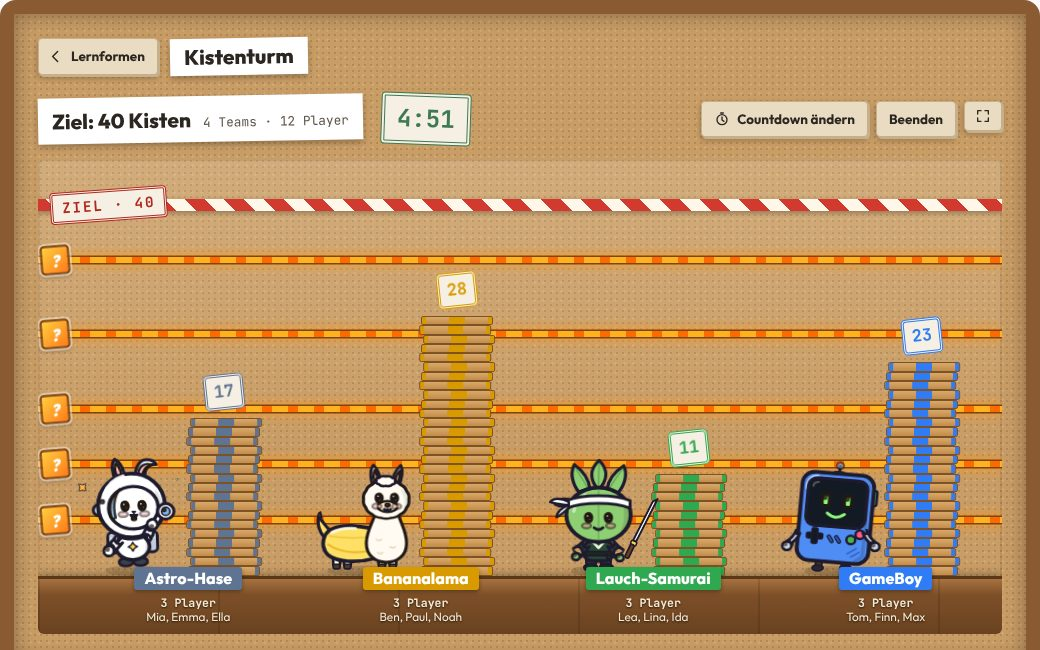
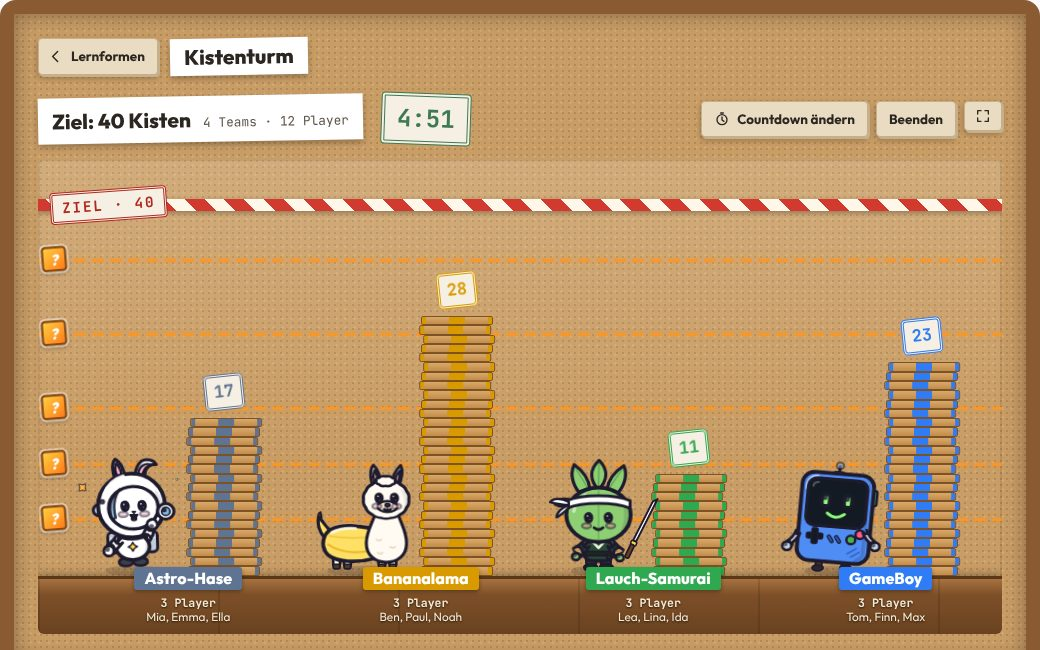
Kistenturm: Item-Linien dezenter, Figuren-Augen im Dunkelmodus
- Item-Linien als gestrichelte 3-px-Linie mit leichtem Schein (Mittelding)
- .dd svg vererbte stroke: currentColor → im Dunkeln heller Rand um die Augen; Figuren behalten jetzt die dunkle Tinte
- Stempel 20261030p, Bildschirmfoto neu

Claude-Session: https://claude.ai/code/session_01SoWN1nmjmVzq2P7aG7Prx9

diff --git a/MPSkills/tools/DefinitionsDerby/tool.css b/MPSkills/tools/DefinitionsDerby/tool.css
@@ -105,6 +105,9 @@
 .dd-busy .dd-main { opacity: .7; pointer-events: none; }
 
 .dd svg { width: 18px; height: 18px; fill: none; stroke: currentColor; stroke-width: 2; stroke-linecap: round; stroke-linejoin: round; flex: none; }
+/* Figuren (KSCreatures) erben den Strich über currentColor: im Dunkeln wäre er hell
+   und legt einen hellen Rand um die Augen — also immer dunkle Tinte */
+.dd .creature-svg { color: var(--ink); }
 
 /* ─── Kopf und Texte ─── */
 .dd-top { display: flex; gap: 14px; align-items: flex-start; justify-content: space-between; flex-wrap: wrap; margin-bottom: 22px; }
@@ -1437,13 +1440,13 @@ html.kb-open .dd-task__term b { font-size: 1.4rem; }
 @keyframes dd-st-settle { 0% { transform: translateY(-14px); } 60% { transform: translateY(3px); } 100% { transform: none; } }
 /* Item-Linien am Beamer */
 .dd-st__ilines { position: absolute; inset: 0; pointer-events: none; z-index: 0; }
-/* gut sichtbar (Sönke 30.10.2026: „nicht gut zu sehen“): kräftiges Band mit dunklem Saum und Schein */
+/* gut sichtbar, aber nicht aufdringlich (Sönke 30.10.2026: erst „nicht gut zu sehen“, dann „etwas too much“) */
 .dd-st__ilines i {
-  position: absolute; left: 0; right: 0; height: 6px; margin-bottom: -3px;
-  background: repeating-linear-gradient(90deg, #ffb21e 0 16px, #ff6a00 16px 26px);
-  box-shadow: 0 0 0 1.5px rgba(90,40,0,.75), 0 0 12px 2px rgba(255,150,20,.75);
+  position: absolute; left: 0; right: 0; height: 3px; margin-bottom: -1.5px;
+  background: repeating-linear-gradient(90deg, rgba(255,150,30,.85) 0 12px, transparent 12px 18px);
+  box-shadow: 0 0 6px rgba(255,150,20,.35);
 }
-.dd-st__ilines .dd-st__qbox { position: absolute; left: 3px; top: -11px; width: 28px; height: 28px; font-size: 1rem; animation: dd-st-qbox 2.4s ease-in-out infinite; }
+.dd-st__ilines .dd-st__qbox { position: absolute; left: 4px; top: -12px; width: 24px; height: 24px; font-size: .9rem; animation: dd-st-qbox 2.4s ease-in-out infinite; }
 @keyframes dd-st-qbox { 50% { transform: rotate(-8deg) scale(1.08); } }
 /* Wirkungen an der Bahn */
 .dd-st__fxs { position: absolute; left: 4px; top: auto; bottom: calc(var(--fw) + 8px); z-index: 6; display: flex; flex-direction: column; gap: 4px; }
@@ -1530,7 +1533,7 @@ html.kb-open .dd-task__term b { font-size: 1.4rem; }
 .dd-st__pop.is-item { display: inline-flex; align-items: center; gap: 4px; border-left-color: #ff9f1c; }
 .dd-st__pop .dd-it { width: 20px; height: 20px; }
 /* Tablet: Items, Wirkungen, Hinweise, Teatime */
-.dd-st__rbar u { position: absolute; left: var(--y); top: 0; bottom: 0; width: 4px; margin-left: -2px; background: #ff8c1e; box-shadow: 0 0 0 1px rgba(90,40,0,.7), 0 0 5px rgba(255,140,30,.9); z-index: 2; }
+.dd-st__rbar u { position: absolute; left: var(--y); top: 0; bottom: 0; width: 3px; margin-left: -1.5px; background: #ff8c1e; box-shadow: 0 0 0 1px rgba(90,40,0,.35); z-index: 2; }
 .dd-st__rr .dd-st__fxs { position: static; flex-direction: row; grid-column: 2 / 4; margin-top: -2px; }
 .dd-st__rr .dd-st__fxs:empty { display: none; }
 .dd-st__rr .dd-st__fxs span { font-size: .7rem; }
@@ -1643,7 +1646,7 @@ html.kb-open .dd-task__term b { font-size: 1.4rem; }
   .dd-st--dev .dd-st__rbar::after { left: 0; right: 0; top: 0; bottom: auto; width: auto; height: 4px; background: repeating-linear-gradient(90deg, #d23a2f 0 4px, #fff7ea 4px 8px); }
   .dd-st--dev .dd-st__rbar i { top: auto; right: 0; width: auto; height: var(--p, 0%);
     background: repeating-linear-gradient(0deg, rgba(0,0,0,.2) 0 1.5px, transparent 1.5px 8px), var(--tc); }
-  .dd-st--dev .dd-st__rbar u { left: 0; right: 0; top: auto; bottom: var(--y); width: auto; height: 3px; margin: 0 0 -1.5px; }
+  .dd-st--dev .dd-st__rbar u { left: 0; right: 0; top: auto; bottom: var(--y); width: auto; height: 2px; margin: 0 0 -1px; }
   .dd-st--dev .dd-st__rfig, .dd-st--dev .dd-st__rr.is-me .dd-st__rfig { order: 3; width: 30px; height: 30px; }
   .dd-st--dev .dd-st__rr .dd-st__pops { left: 50%; right: auto; top: 0; transform: translateX(-50%); }
   .dd-st--dev .dd-st__rr .dd-st__pop { font-size: .66rem; padding: 1px 5px; }

diff --git a/MPSkills/index.html b/MPSkills/index.html
@@ -555,7 +555,7 @@
      das Drehbuch je Skill; das Werkzeug selbst (137 KB) kommt erst,
      wenn jemand eine Kachel öffnet — und mit ihm lib/tool.js. Wer
      nur die Liste anschaut, lädt nichts davon. -->
-<script src="lib/preview.js?v=20261030o"></script>
+<script src="lib/preview.js?v=20261030p"></script>
 <script src="preview/wordcloud.js?v=20260819d"></script>
 <script src="preview/neurolab.js?v=20260819b"></script>
 <script src="preview/caesar.js?v=20260820"></script>

diff --git a/MPSkills/lib/preview.js b/MPSkills/lib/preview.js
@@ -415,7 +415,7 @@
     if (window.MPTool) return Promise.resolve();
     return new Promise((resolve, reject) => {
       const s = document.createElement('script');
-      s.src = 'lib/tool.js?v=20261030o';
+      s.src = 'lib/tool.js?v=20261030p';
       s.onload  = () => window.MPTool ? resolve() : reject(new Error('MPTool fehlt'));
       s.onerror = () => reject(new Error('lib/tool.js nicht gefunden'));
       document.head.appendChild(s);

diff --git a/MPSkills/lib/tool.js b/MPSkills/lib/tool.js
@@ -105,7 +105,7 @@
        neue Reliefkarte von Wordisland unter — der Umbau war fertig,
        auf dem Bildschirm stand die alte Karte, und es sah aus, als
        wäre nichts geschehen. */
-    const v = '?v=20261030o';
+    const v = '?v=20261030p';
 
     loading[id] = new Promise((resolve, reject) => {
       // Das Stylesheet wird nicht abgewartet: ein Werkzeug, das auf

diff --git a/MPSkills/j.html b/MPSkills/j.html
@@ -77,7 +77,7 @@
      dazuholen" raus ist. Die Tür gehört der Tafel. -->
 <script src="lib/room.js?v=20261024b"></script>
 <script src="lib/icons.js?v=20261030c"></script>
-<script src="lib/tool.js?v=20261030o"></script>
+<script src="lib/tool.js?v=20261030p"></script>
 <script src="door-login.js?v=20261017b"></script>
 <script src="j.js?v=20261024b"></script>
 </body>

diff --git a/MPSkills/showroom-preview.html b/MPSkills/showroom-preview.html
@@ -73,7 +73,7 @@
 
 <div class="toast" id="toast" role="status" aria-live="polite"></div>
 
-<script src="lib/preview.js?v=20261030o"></script>
+<script src="lib/preview.js?v=20261030p"></script>
 <script src="preview/wordcloud.js?v=20260819d"></script>
 <script src="preview/neurolab.js?v=20260819b"></script>
 <script src="preview/caesar.js?v=20260820"></script>

diff --git a/MPSkills/lehrer.html b/MPSkills/lehrer.html
@@ -55,7 +55,7 @@
 <script src="lib/qr.js?v=20260817"></script>
 <script src="lib/room.js?v=20261024b"></script>
 <script src="lib/icons.js?v=20261030c"></script>
-<script src="lib/tool.js?v=20261030o"></script>
+<script src="lib/tool.js?v=20261030p"></script>
 <script src="tools.js?v=20261030c"></script>
 <script src="lehrer.js?v=20261024"></script>
 </body>

diff --git a/MPSkills/derby.html b/MPSkills/derby.html
@@ -44,7 +44,7 @@
 <script src="../avatars.js?v=20261028a"></script>
 <script src="lib/userbar.js?v=20261021"></script>
 <script src="lib/profilemodal.js?v=20261024"></script>
-<script src="lib/tool.js?v=20261030o"></script>
+<script src="lib/tool.js?v=20261030p"></script>
 <script src="derby.js?v=20261026b"></script>
 </body>
 </html>

diff --git a/MPSkills/insel.html b/MPSkills/insel.html
@@ -56,7 +56,7 @@
 <script src="../avatars.js?v=20261028a"></script>
 <script src="lib/userbar.js?v=20261020"></script>
 <script src="lib/room.js?v=20261024b"></script>
-<script src="lib/tool.js?v=20261030o"></script>
+<script src="lib/tool.js?v=20261030p"></script>
 <script src="insel.js?v=20260923"></script>
 </body>
 </html>

diff --git a/MPSkills/tools/DefinitionsDerby/tool.js b/MPSkills/tools/DefinitionsDerby/tool.js
@@ -74,7 +74,7 @@
 (function () {
   'use strict';
 
-  const V = '20261030o';
+  const V = '20261030p';
   const BASE = 'tools/DefinitionsDerby/';
   const MAX_SHARED = 20;          // data.shared muss in 8 KB passen
   const LEVELS = ['neu', 'unsicher', 'teilweise', 'sicher'];

diff --git a/MPSkills/tools/DefinitionsDerby/CLAUDE.md b/MPSkills/tools/DefinitionsDerby/CLAUDE.md
@@ -72,7 +72,7 @@ Erste Lernform **„Zusammen im Netz“** (`storm`, `GAMES` mit `net: true`, nur
 - **Server** (Tabellen `dd_storm_boards/teams/players/events`, alles am Raum mit on delete cascade): Lehrkraft `dd_storm_room_get/setup/start/stop/reset(p_code, …)`, Tablet `dd_storm_view(p_token, p_since)` und `dd_storm_answer(p_token, p_ok, p_since)` — jede Antwort liefert die ganze Ansicht zurück. Phasen `lobby → countdown (4 s) → running → ended`, lazy weitergeschaltet (`dd_storm_advance`, kein Cron). **Ob eine Antwort stimmt, prüft das Tablet** (insel.js, nachsichtig); der Server zählt höchstens eine richtige je 1,2 s und Gerät (`too_fast`). **Fair bei ungleichen Teams**: eine Antwort bringt `größtes Team / eigenes Team` Anteile (`progress`), Höhe = ganzer Teil. Für Animationen eine laufende Nummer `seq` und kurze Ereignisliste (`box` mit Name und Höhe, `start`, `win`, `time`, `stop`, `reset`; die letzten 200 bleiben); Geräte fragen mit `p_since` nur Neues. In der Lobby kennt das Tablet über `me.id` sein Vorschau-Team.
 - **Aufgaben**: dieselben fünf wie auf der Insel (`DDInsel.makeTask`), die Stufe kommt aus der **Höhe des eigenen Turms** (`stLevel` = ⌊Höhe/Ziel · 5⌋: Begriff wählen · Definition wählen · Bausteine · Begriff tippen · Lückentext) — wer hinten liegt, hat leichtere Aufgaben. Reihenfolge `DDInsel.roundCards`, Falsches kommt per `requeue` wieder. Richtig → „Eine Kiste für Team X“, nach 1 s die nächste; falsch → Lösung, „Weiter“ erst nach 1,6 s (`ST_LOCK_MS`, gegen Raten). **Schreibt keinen Lernstand** (wie Memory/Duell). Das Aufgabenblatt ist dasselbe wie auf der Insel (`paintTask` & Co. fragen `curTask()`; das Ergebnis geht über `taskResult` an `stResult` bzw. `islResult`), hier im Fluss statt als Fenster (`.dd-task--inline`, Kopf `stTaskHead`).
 - **Die sechs Figuren** (`figuren.js` + `figuren.css`, Sönke: „neue Wesen ähnlich Knowledge Stack, sechs verschiedene, cool/süß, jede mit eigenem Charakter … die Figur hebt den Stapel hoch und darunter erscheint eine neue Kiste“): gebaut mit dem Baukasten von Knowledge Stack (`KSCreatures.buildDef` + `kit`, gleiches Skelett/Gesicht/Bewegungen; `tool.js` lädt `tools/KnowledgeStack/creatures.js/.css` nach). Team = Nummer in `DDFiguren.LIST`, **nicht umsortieren**. Fassung nach Sönkes Vorlagebildern (29.10.2026, „die Teamfiguren mag ich noch nicht“, dann „Kopf größer, Arme besser, das Bananalama sieht fies aus“): Chibi-Stil – großer Kopf, kleiner Körper; **Arme je Figur wie in der Vorlage** (dritte Runde, Sönke: „die Arme mag ich nicht … schau dir die Vorlage an“): `limb` (Arm mit Knick, oben dicker, runde Enden) + `hand` (runde Hand mit Daumen); Astro-Hase schlichte dicke Raumanzug-Ärmel mit runder Hand (Sönke: „die Arme vom Hasen sind zu unruhig“, ohne Fähnchen und Linien), GameBoy dünne graue Ärmchen, Lauch-Samurai weite Kimono-Ärmel mit grünen Händen (Schwert in `behind`, Griff an der rechten Hand), Popcorn kurze schwarze Stummelärmchen. Hase und GameBoy winken in Ruhe ab und zu (`ds-wave`). **Augen** (Sönke 30.10.2026: „sehen nicht mehr so süß aus, schwarz ist zu dick“): schmaler und kleiner mit größerem Glanzpunkt über `face.ew` (Breite, Standard 0,8) und `face.hl` (Glanzpunkt, Standard 0,34) — beide optional in `creatures.js`, Knowledge Stack bleibt unverändert; Figuren nutzen `ew: .72, hl: .42`. 0 **Astro-Hase** (schwebt schräg, ein Ohr geknickt, offener Mund mit Zunge, Rucksack hinten, Stern auf der Brust, blauer Rand innen im Helm, winkt ab und zu; Teamfarbe Schiefergrau, weil Weiß auf Papier nicht lesbar ist) · 1 **Bananalama** (wie die Vorlage: großer Wuschelkopf (`fluff`) und kurzer, runder Hals mit bauchiger Brust (Sönke: „der Hals ist unförmig, putziger“), beides als EIN Umriss über `merged` (erst mit Rand, dann ohne darüber, damit keine Linien innen bleiben), große Augen, kleine Nase, Katzenmund, ohne Brille; die Banane ist der Körper, hinten hochgebogen mit dunkler Spitze, ohne Stiel am Po; keine Arme, beim Heben reckt es den Hals) · 2 **Lauch-Samurai** (großer runder Blatt-Kopf, drei Blätter, Stirnband) · 3 **GameBoy** (große Konsole, Bildschirm-Gesicht, Steuerkreuz, grüner Seitenknopf, Antenne) · 4 **Popcorn** (gestreifte Tüte, 3D-Brille mit weißem Rahmen, links blau, rechts rot, in `headTop`) · 5 **Magic Ghost** (schwebendes Gespenst mit Zauberhut, Stab in `front`). `DDFiguren.svg(team, action, px)` mit `idle` · `lift` (`.ds-lift`: in die Knie, Arme nach oben außen, strecken, 0,9 s) · `cheer` · `sad` · `wave` (aus creatures.css). Ansehen: `showroom-kistensturm.html` (Knöpfe je Figur).
-- **Beamer** (`stSceneBeam`): Holzleiste unten mit Teamschild, je Team ein Turm aus **Pappkartons mit Klebeband** (`.dd-st__box`; das breite Klebeband in der Mitte und beide Seitenkanten in der Farbe des Teams, dem die Kiste gehört — Sönke 30.10.2026: „eindeutiger in der Farbe“), die Figur steht links daneben; neue Kiste = Figur hebt (`stLift`) und die Kiste rutscht unten hinein (`.is-new`, `column-reverse`, erstes Kind = unten), Kiste für Kiste je Team nachgezogen (`stSync`/`stStep`, `ST_STEP_MS`; weit zurück → springen bis auf 3). Kistenhöhe so, dass das Ziel genau unter das **Absperrband** passt (`stLayout`, `--bh`; unter 12 px ohne Klebeband-Details `is-thin`). Höhe als Stempel über dem Turm, darüber „Name +1“-Zettel. Unter dem Teamschild „x Player“ und die Namen des Teams (`stWho`/`stPaintWho`, zieht Spätzugänge nach; Sönke 30.10.2026, vorher „x Kinder“). **Item-Linien** als kräftiges orange gestreiftes Band mit dunklem Saum und Schein, Fragezeichen größer (Sönke 30.10.2026: „nicht gut zu sehen“); am Tablet die Linien im Balken ebenso kräftig. Countdown „Bereit? 3-2-1 Los!“ als großer Stempel, Uhr oben (rot in den letzten 30 s), Vollbild-Knopf. Ende: Siegerkarte (Figur jubelt, Platzierung, „Nochmal“), am Turm jubelt der Sieger, die anderen sind traurig.
+- **Beamer** (`stSceneBeam`): Holzleiste unten mit Teamschild, je Team ein Turm aus **Pappkartons mit Klebeband** (`.dd-st__box`; das breite Klebeband in der Mitte und beide Seitenkanten in der Farbe des Teams, dem die Kiste gehört — Sönke 30.10.2026: „eindeutiger in der Farbe“), die Figur steht links daneben; neue Kiste = Figur hebt (`stLift`) und die Kiste rutscht unten hinein (`.is-new`, `column-reverse`, erstes Kind = unten), Kiste für Kiste je Team nachgezogen (`stSync`/`stStep`, `ST_STEP_MS`; weit zurück → springen bis auf 3). Kistenhöhe so, dass das Ziel genau unter das **Absperrband** passt (`stLayout`, `--bh`; unter 12 px ohne Klebeband-Details `is-thin`). Höhe als Stempel über dem Turm, darüber „Name +1“-Zettel. Unter dem Teamschild „x Player“ und die Namen des Teams (`stWho`/`stPaintWho`, zieht Spätzugänge nach; Sönke 30.10.2026, vorher „x Kinder“). **Item-Linien** als orange gestrichelte 3-px-Linie mit leichtem Schein, Fragezeichen etwas größer (Sönke 30.10.2026: erst „nicht gut zu sehen“, das kräftige Band dann „etwas too much“ → Mittelding); am Tablet die Linien im Balken etwas kräftiger. **Dunkelmodus**: `.dd svg` vererbt `stroke: currentColor`; damit die Figuren-Augen keinen hellen Rand bekommen, setzt `.dd .creature-svg { color: var(--ink) }` die dunkle Tinte aus creatures.css. Countdown „Bereit? 3-2-1 Los!“ als großer Stempel, Uhr oben (rot in den letzten 30 s), Vollbild-Knopf. Ende: Siegerkarte (Figur jubelt, Platzierung, „Nochmal“), am Turm jubelt der Sieger, die anderen sind traurig.
 - **Tablet** (`stSceneDev`): Papierkarte mit allen Teams als Balken (eigenes Team hervorgehoben, „ihr“, große Figur, die mithebt; „+1 Name“ nur fürs eigene Team), darunter die Stufe der Aufgaben, dann das Aufgabenblatt. Lobby: „Du bist in Team X“ mit winkender Figur und den Namen; Ende: eigene Figur jubelt/traurig, Platzierung, „Du hast n Kisten beigetragen“.
 - **Bildschirmfoto** `img/spiel-kistensturm.jpg`, Mini-Bild `MINI.storm` (vier Türme, Absperrband).
 - **Items (Migration 0240, Sönkes Liste 30.10.2026)**: Item-Linien **unten dichter** (Migration 0249, Sönke: „3 unter 50 % und 2 darüber, so haben Schwächere mehr Möglichkeiten“): normal 15 · 30 · 45 · 65 · 85 %, „häufig“ 8 · 16 · 24 · 32 · 40 · 48 · 60 · 70 · 80 · 90 % der Zielhöhe — `dd_storm_lines`/`dd_storm_lines_below` in SQL und `ST_LINES` in `tool.js`, **beide zusammen ändern**; **Gewichte** (Erster · vordere Hälfte · hintere Hälfte · Letzter, 0249): Bonus 3 3 1 0 · Stein 3 2 1 0 · Möwe 0 3 2 0 · 3 Möwen 0 0 2 3 · Maxi 1 2 2 0 · Mini 0 1 2 0 · Eis 1 2 2 0 · Sturm 0 2 3 3 · Teatime 0 0 2 2, aber **Platz 3 immer 5** · Boom 0 0 2 3 · Bus 0 1 2 3 · Kuddelmuddel 1 1 2 2; wer eine Linie überquert, bekommt ein Item fürs Team — **jedes Mal**, auch nach Kistenverlust erneut (Migration 0241: `line_max` = Linie, über der der Turm gerade steht, sinkt per Trigger `dd_storm_teams_relevel` mit der Höhe; Sönke: „Die Linie gilt immer!“) (höchstens 2, `dd_storm_teams.items`), **einsetzen darf es EINE Person, reihum** (Migration 0247, Sönke 30.10.2026: „die Items bekommt immer einer aus dem Team … das Item geht reihum“): `dd_storm_teams.items_who` (Teilnehmer-ids parallel zu `items`) + `item_turn`, vergeben vom Trigger `dd_storm_teams_items_who` (nach Sitzplatz, Anwesende zuerst); `dd_storm_use(p_token, p_slot, p_since)` → sonst `not_yours`, außer der Halter ist weg (entfernt/gesperrt/90 s nicht gesehen). Ansicht `teams[].iw`. Am Tablet hat der Halter einen kleinen Knopf „Einsetzen“, die anderen sehen „Mia hat ein Item“ (`stPaintItems`, `stName`). Welches, würfelt `dd_storm_draw` nach Platz (Gewichte je Gruppe Erster/vordere/hintere/Letzter, Tabelle in der Funktion; ausgeschaltete Items fallen raus). Lobby: Items an/aus, normal/häufig, jedes Item an/aus (`dd_storm_room_items`, nur in der Lobby). Die 12 Items: **Bonus-Kisten** (+2 Gold) · **Steinkiste** (Möwe/Sturm/Boom kommen nicht an Darunterliegendes, `dd_storm_take_top` nimmt die oberste Nicht-Stein-/Nicht-Eis-Kiste) · **Möwe** (oberste Kiste des Teams direkt davor wandert zu euch) · **3 Möwen** (**immer 3 Kisten**, Migration 0248, Sönke 30.10.2026: reihum über die Teams davor, das nächste zuerst, auch doppelt; erst wenn davor nichts mehr zu holen ist, von den Teams dahinter; auch die einfache Möwe holt beim Ersten von hinten; Ereignis `data.g = [{t, b}]` je Kiste) — **geklaute Kisten behalten ihre Farbe**, man sieht, von wem sie sind (0248 nimmt 0246 zurück) · **Maxi-Kisten** (40 s doppelt hoch, `k:'x'`; 0249, vorher 20 s) · **Mini-Kisten** (zwei Teams davor 40 s halbe Kisten, `k:'m'`) · **Sturm** (30 s, `storm_until`: falsche Antwort kostet die oberste Kiste, aber nur ab Stufe 2, also Höhe ≥ Ziel/5) · **Teatime** (die ersten beiden Teams 10 s Pause, Antwort → Ergebnis `tea`; nicht für Teams auf Platz 1–2) · **Bus** (fährt unten durch, nimmt jedem anderen Team eine Höhe von 5 normalen Kisten, auch Steine) · **Boom** (Plasmabombe auf den Ersten: oberste 5 weg, ein Stein stoppt) · **Eiskiste** (ein anderes Team bekommt sie **ganz unten** in den Turm, Migration 0245, Sönke 30.10.2026: „man verliert nur die neuen“; die nächsten 5 Antworten müssen sitzen, sonst rutscht weg, was seitdem unter dem Eis gewachsen ist — die vorher erspielten Kisten liegen darüber und bleiben; ohne Zeitlimit) · **Kuddelmuddel** (alle Kisten aller Teams gemischt, Anzahl je Team bleibt, jede Kiste behält ihre Farbe (0248); alle Plätze, mittel häufig). Kisten liegen als `boxes` jsonb (unten zuerst, `{k,t,n}`), `height` = Summe der Größen (numeric, halbe Kisten möglich); `dd_storm_state` schickt sie kurz als `b: ["n2","s1","i3.4"]`. **Veraltete Ansichten verwirft `stApply`** (`v.seq < st.seq` im selben Spiel): eine Abfrage, die vor dem Einsetzen/Antworten losging und danach ankommt, ließ sonst Türme zurückspringen — die Möwe sah aus, als klaute sie doppelt (Sönke 30.10.2026). Ereignisse `box/get/use/blow/icebreak/melt` mit `data` → Beamer-Animationen (`stEvent`) und Ansage oben. **Effekte mit „Bam“** (Sönke 30.10.2026: „das soll Spaß machen, die zu erzeugen“): `stBam` (Comic-Stern mit Wort: SCHNAPP!, RUMMS!, BOOM!, FROST!, KRACK!, HUI!, +2!, TOCK!, MAXI!, TEATIME!, STURM!, KUDDELMUDDEL!), `stSparks` (Funken), `stQuake` (Szene wackelt), `stKnock` (Kisten fliegen als Kopien davon, der Rest fällt nach; kürzt `st.shown` gleich mit); **Bus** fährt auf der Holzleiste in Turmhöhe durch und haut an jedem Turm genau zu dem Zeitpunkt, an dem er ankommt, die untersten Kisten weg (`stBus`, `d['n'+t]`); **Möwe** putziger (`GULL`: runder Körper, Glanzauge, Bäckchen, schlagende Flügel `.dd-gw`), stößt herab, schnappt die Kiste und fliegt zum eigenen Turm; Boom schleudert die obersten Kisten weg; Eisbruch die untersten (`d.lost`). Am Tablet bekommt, wer einsetzt, das Item groß ins Bild (`stBig`, kurz vibrieren). Bei „Bewegung reduzieren“ keine Funken/Wackler; Wirkungen mit Zeit als Abzeichen über der Figur (`#ddStX`), gehaltene Items neben dem Teamnamen (`#ddStI`), am Tablet im Spiel Item-Bild + „Einsetzen“ und daneben ein kleines „i“ → dasselbe Erklärfenster wie in der Lobby (`#ddStItems`, `.dd-st__itwrap`, Sönke 30.10.2026) und Teepause-Schleier. Erklärung der Items in der Lobby: Lehrkraft hat an jedem Item ein „i“, Schüler sehen unter ihrer Teamkarte „Items in diesem Spiel“ (nur eingeschaltete, antippen) → Fenster `stItemInfo` mit Bildschirmfoto `img/item-<id>.jpg` (880×440; `item-eis/moewe/moewe3/bus.jpg` am 30.10.2026 neu, Animation per `document.getAnimations()` angehalten; aus dem Beamer im Testserver geschnitten: pglite mit allen Migrationen, Lehrkraft-Seite mit `MPTool.presenterActions`, Türme per `dd_storm_put` gesetzt, Fenster 1000×760, Ausschnitt unten aus `#ddStScene`, JPEG 82) + Kurztext. **Layout (Sönke 30.10.2026: „am Handy ohne Scrollen weiterkommen“)**: am Handy (≤ 600 px) im Spiel schmaler Rahmen, Kopf nur „Lernformen“, Rennen als kleine Türme nebeneinander (Balken über `--p`, Linien über `--y`), Meldungen schweben oben (fixed), Aufgabe kompakt; `stFitPhone()` schiebt den Spielbereich bei jeder neuen Aufgabe an den oberen Rand und holt Rückmeldung/„Weiter“ ins Bild. Beamer: Spielfeld so hoch wie bis zum Fensterrand (`stLayout`), Kisten schrumpfen, wenn ein Turm über das Ziel ragt (`st.tall`), Fragezeichen der Item-Linien in eigenem Streifen links. Lückentext-Kästchen brechen um (`.dd-gapw` flex-wrap).
